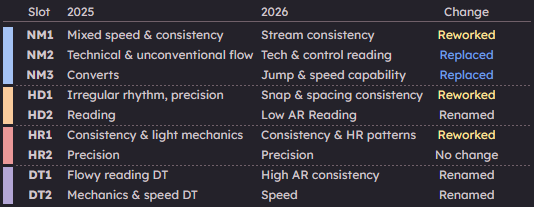
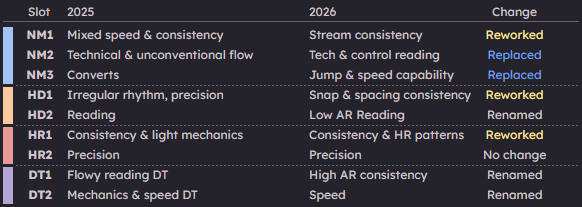
Update `CWC 2026 Registrations` news post, wiki article (#14674)
* Update `CWC 2026 Registrations` wiki article/news post

* also fix missing coloring for HD1

diff --git a/wiki/Tournaments/CWC/2026/en.md b/wiki/Tournaments/CWC/2026/en.md
@@ -42,7 +42,7 @@ The osu!catch World Cup 2026 is run by various community members.
 | Position | Member(s) |
 | :-- | :-- |
 | Manager | ::{ flag=CA }:: [Azer](https://osu.ppy.sh/users/2155578), ::{ flag=US }:: [ChillierPear](https://osu.ppy.sh/users/9501251), ::{ flag=BR }:: [LeoFLT](https://osu.ppy.sh/users/3668779), ::{ flag=CN }:: [Sakura006](https://osu.ppy.sh/users/10365024) |
-| Mappool selectors |  |
+| Mappool selectors | ::{ flag=KR }:: [Rocma](https://osu.ppy.sh/users/566276), ::{ flag=US }:: [Secre](https://osu.ppy.sh/users/2306637), ::{ flag=KR }:: [Spectator](https://osu.ppy.sh/users/702598), ::{ flag=US }:: [wwwww](https://osu.ppy.sh/users/8434466), ::{ flag=CA }:: [Yoshi\_green](https://osu.ppy.sh/users/1035891) |
 | Mappool playtesters | *TBA* |
 | Mappers | *TBA* |
 | Commentators | *TBA* |

diff --git a/news/2026/2026-04-30-osucatch-world-cup-2026-registrations-now-open.md b/news/2026/2026-04-30-osucatch-world-cup-2026-registrations-now-open.md
@@ -23,11 +23,11 @@ Please refer to the tables below for a more in-depth breakdown of the mappool ch
 
 ### Qualifier stage
 
-![CWC qualifier pool comparison](/wiki/shared/news/2026-04-30-osucatch-world-cup-2026-registrations-now-open/quals.png)
+![CWC qualifier pool comparison](/wiki/shared/news/2026-04-30-osucatch-world-cup-2026-registrations-now-open/quals.png?2)
 
 ### Bracket stage
 
-![CWC bracket pool comparison](/wiki/shared/news/2026-04-30-osucatch-world-cup-2026-registrations-now-open/bracket.png)
+![CWC bracket pool comparison](/wiki/shared/news/2026-04-30-osucatch-world-cup-2026-registrations-now-open/bracket.png?2)
 
 ---
 
